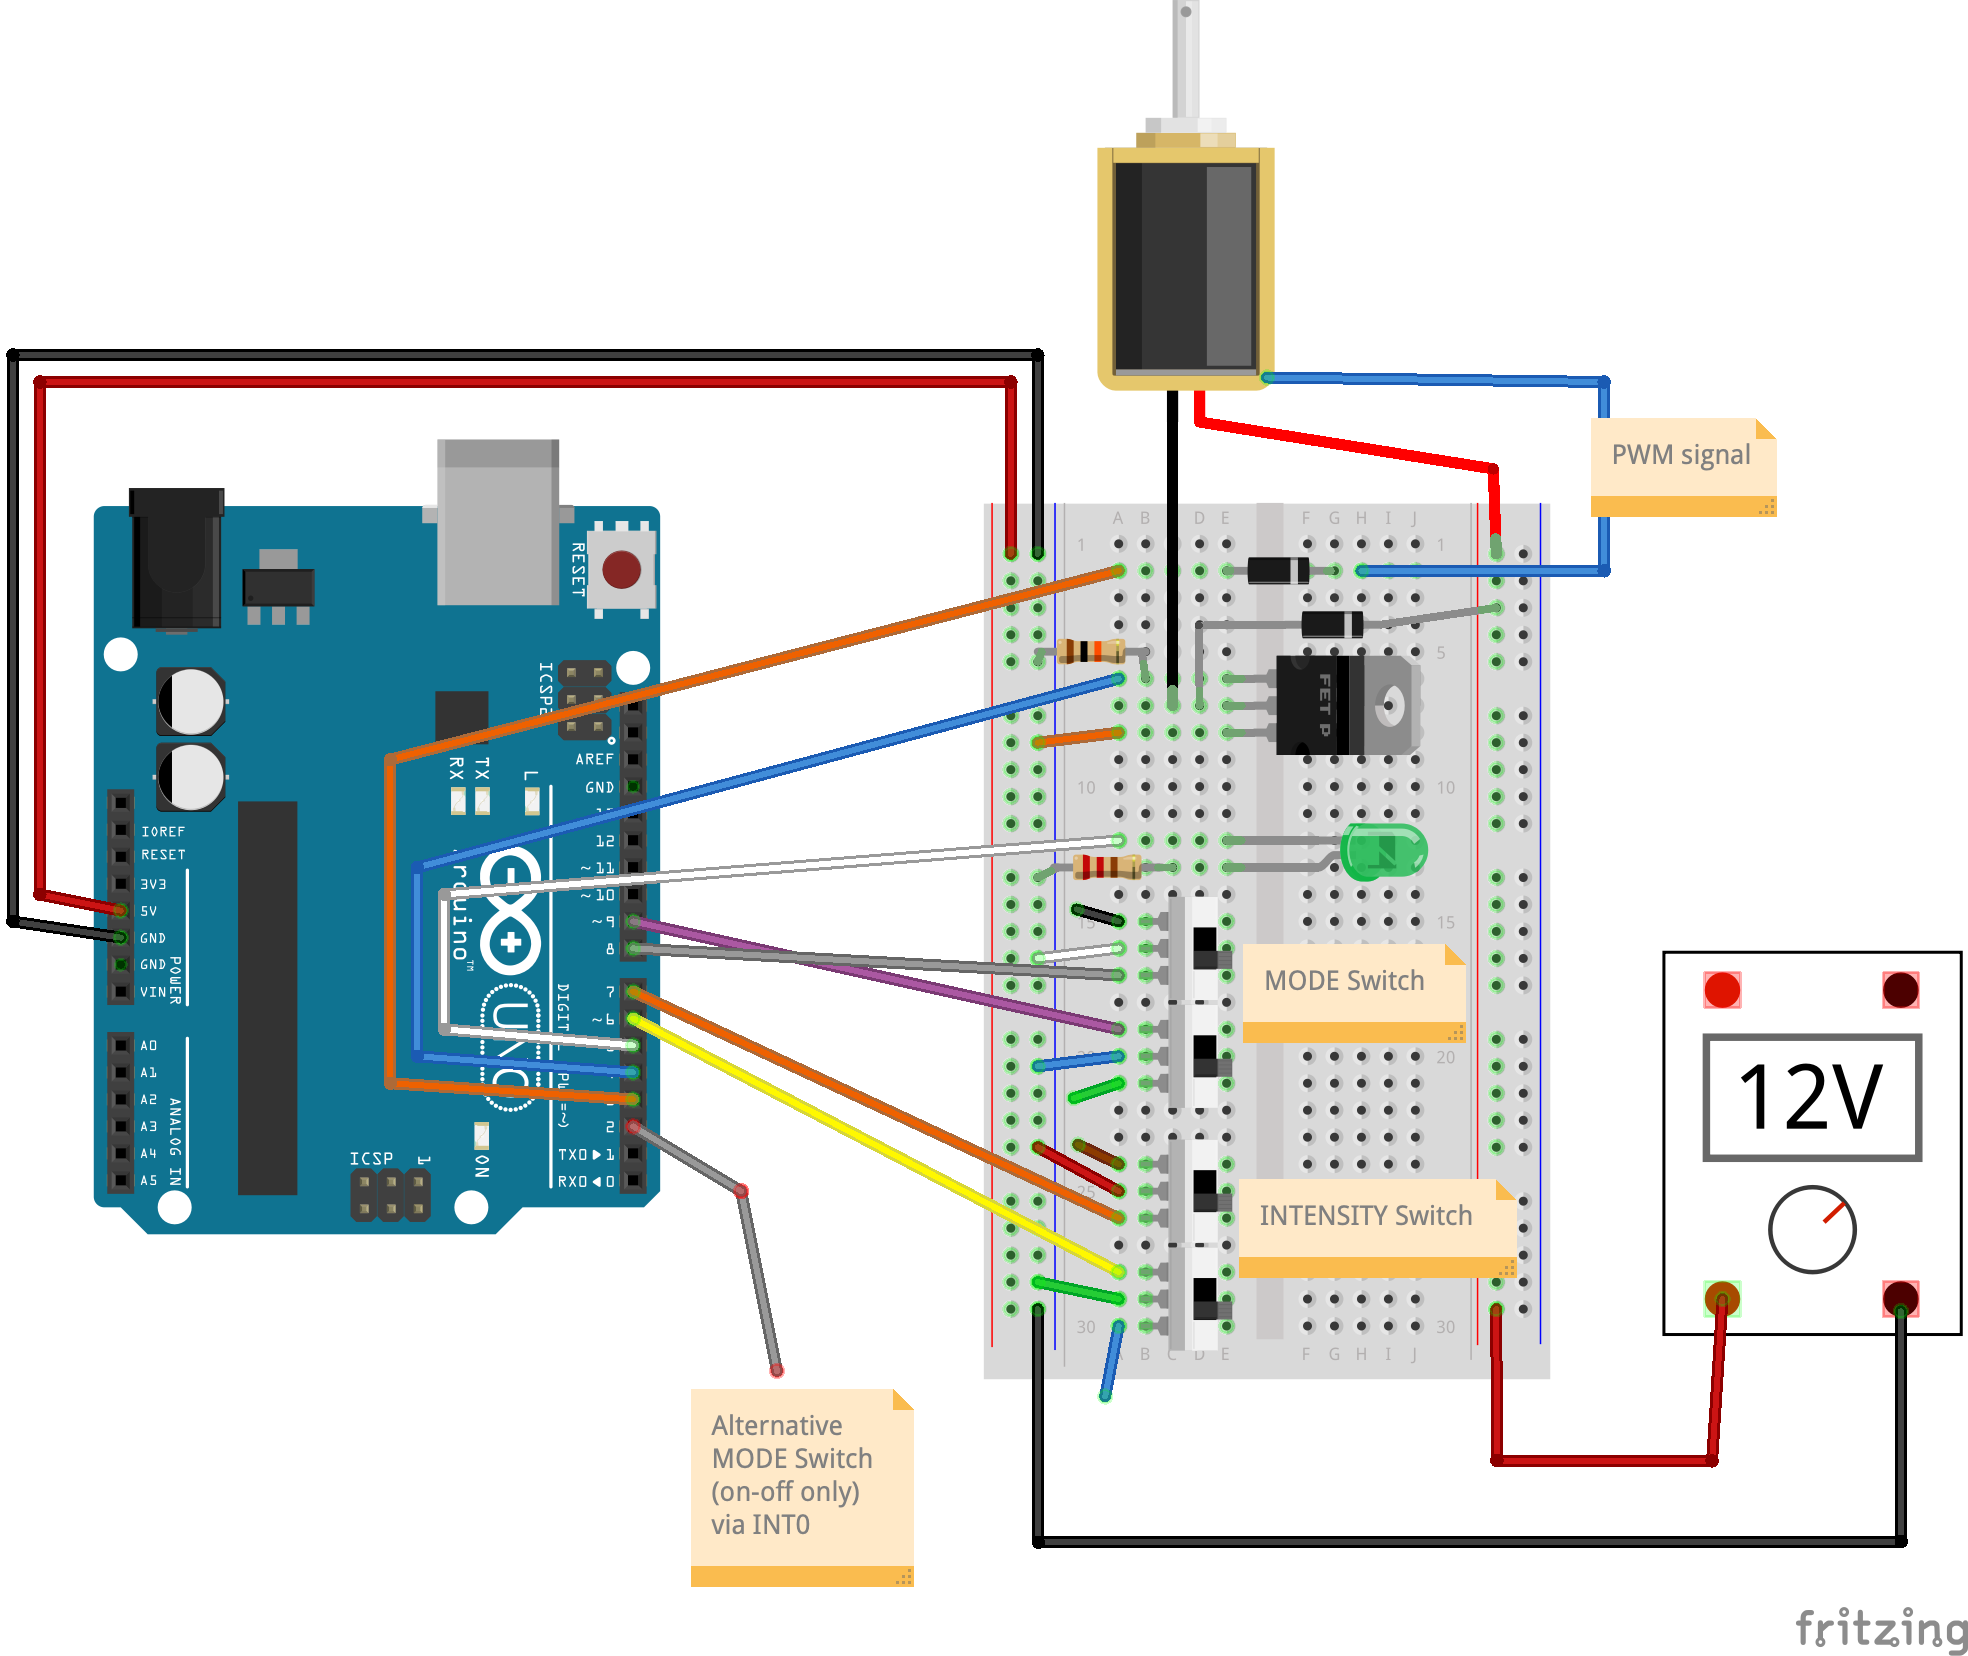
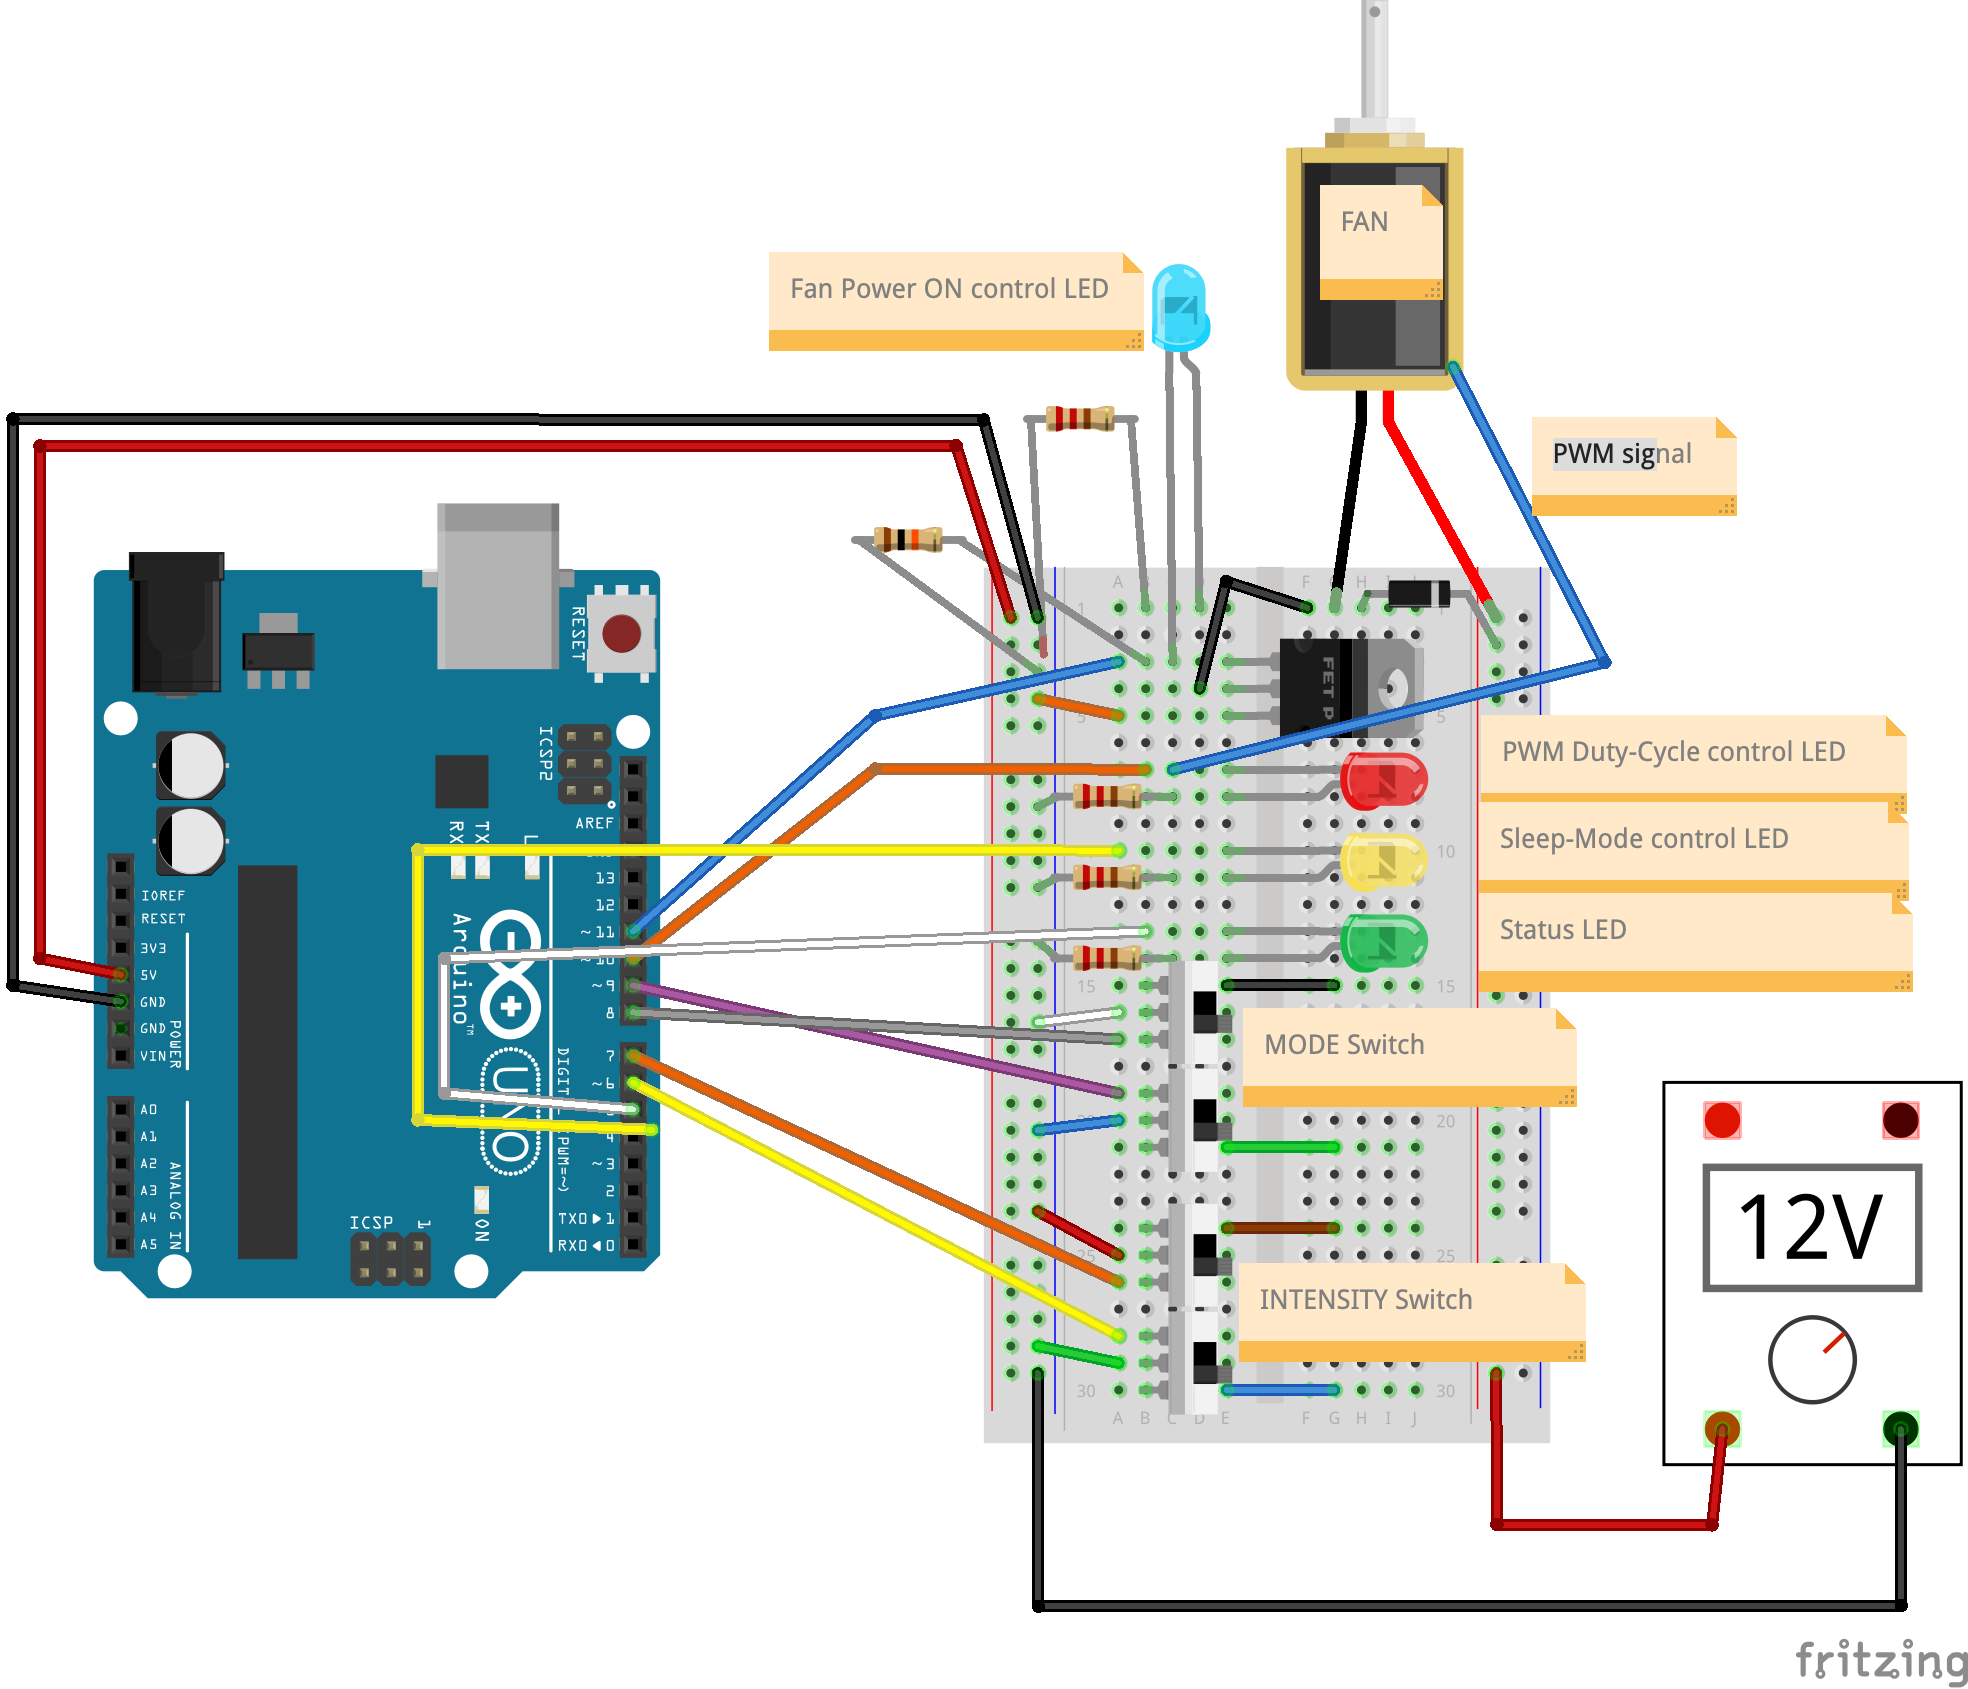
Change some ports
- Flush Serial when speeding up or slowing down
- Disable timer 2

diff --git a/fan_io.h b/fan_io.h
@@ -18,9 +18,9 @@
     const pin_t INTENSITY_SWITCH_IN_PIN_2 = 7;    // PD7 - digital: PD6==HIGH && PD7==LOW   --> HIGH INTENSITY
                                                   //                PD6==HIGH && PD7==HIGH  --> MEDIUM INTENSITY
     const pin_t FAN_PWM_OUT_PIN = 10;             // PB2 - PWM signal @ native frequency (490 Hz)
-    const pin_t FAN_POWER_ON_OUT_PIN = 4;         // PD4 - fan power: MOSFET on/off
+    const pin_t FAN_POWER_ON_OUT_PIN = 11;        // PB3 - fan power: MOSFET on/off
     const pin_t STATUS_LED_OUT_PIN = 5;           // PD5 - digital out; is on when fan is of, blinks during transitioning 
-    const pin_t SLEEP_LED_OUT_PIN = 11;           // PB3 - digital out; on while MCU is in sleep mode 
+    const pin_t SLEEP_LED_OUT_PIN = 4;            // PD4 - digital out; on while MCU is in sleep mode 
   
   #elif defined(__AVR_ATtiny85__)
     const pin_t MODE_SWITCH_IN_PIN = PB2;         // digital: LOW --> CONTINOUS, HIGH --> INTERVAL

diff --git a/fan_control.cpp b/fan_control.cpp
@@ -1,3 +1,4 @@
+#include "HardwareSerial.h"
 #include "fan_control.h"
 #include "low_power.h"
 #include "wdt_time.h"
@@ -144,7 +145,7 @@ void fanOff(FanMode mode) {
      intervalPauseDuration = mapToIntervalPauseDuration(getFanIntensity());
   }
   configInput(FAN_POWER_ON_OUT_PIN);
-  // configInput(FAN_PWM_OUT_PIN);
+  configInput(FAN_PWM_OUT_PIN);
 }
 
 
@@ -162,6 +163,7 @@ void speedUp() {
   #ifdef VERBOSE
     Serial.print("Speeding up: ");
     Serial.println(transitioningDutyValue);
+    Serial.flush();
   #endif
   
   setFanDutyCycle(transitioningDutyValue);
@@ -191,6 +193,7 @@ void slowDown() {
   #ifdef VERBOSE
     Serial.print("Slowing down: ");
     Serial.println(transitioningDutyValue);
+    Serial.flush();
   #endif
   
   setFanDutyCycle(transitioningDutyValue);

diff --git a/low_power.cpp b/low_power.cpp
@@ -18,9 +18,9 @@
     #endif
     power_twi_disable();
     
-//    power_timer0_disable(); // cannot disable, required for millis() function
+    // power_timer0_disable(); // cannot disable, required for millis() function
     // power_timer1_disable(); // cannot disable, required for PWM output on Pin 10
-   power_timer2_disable(); 
+    power_timer2_disable(); 
   }
 
 #elif defined(__AVR_ATtiny85__)
